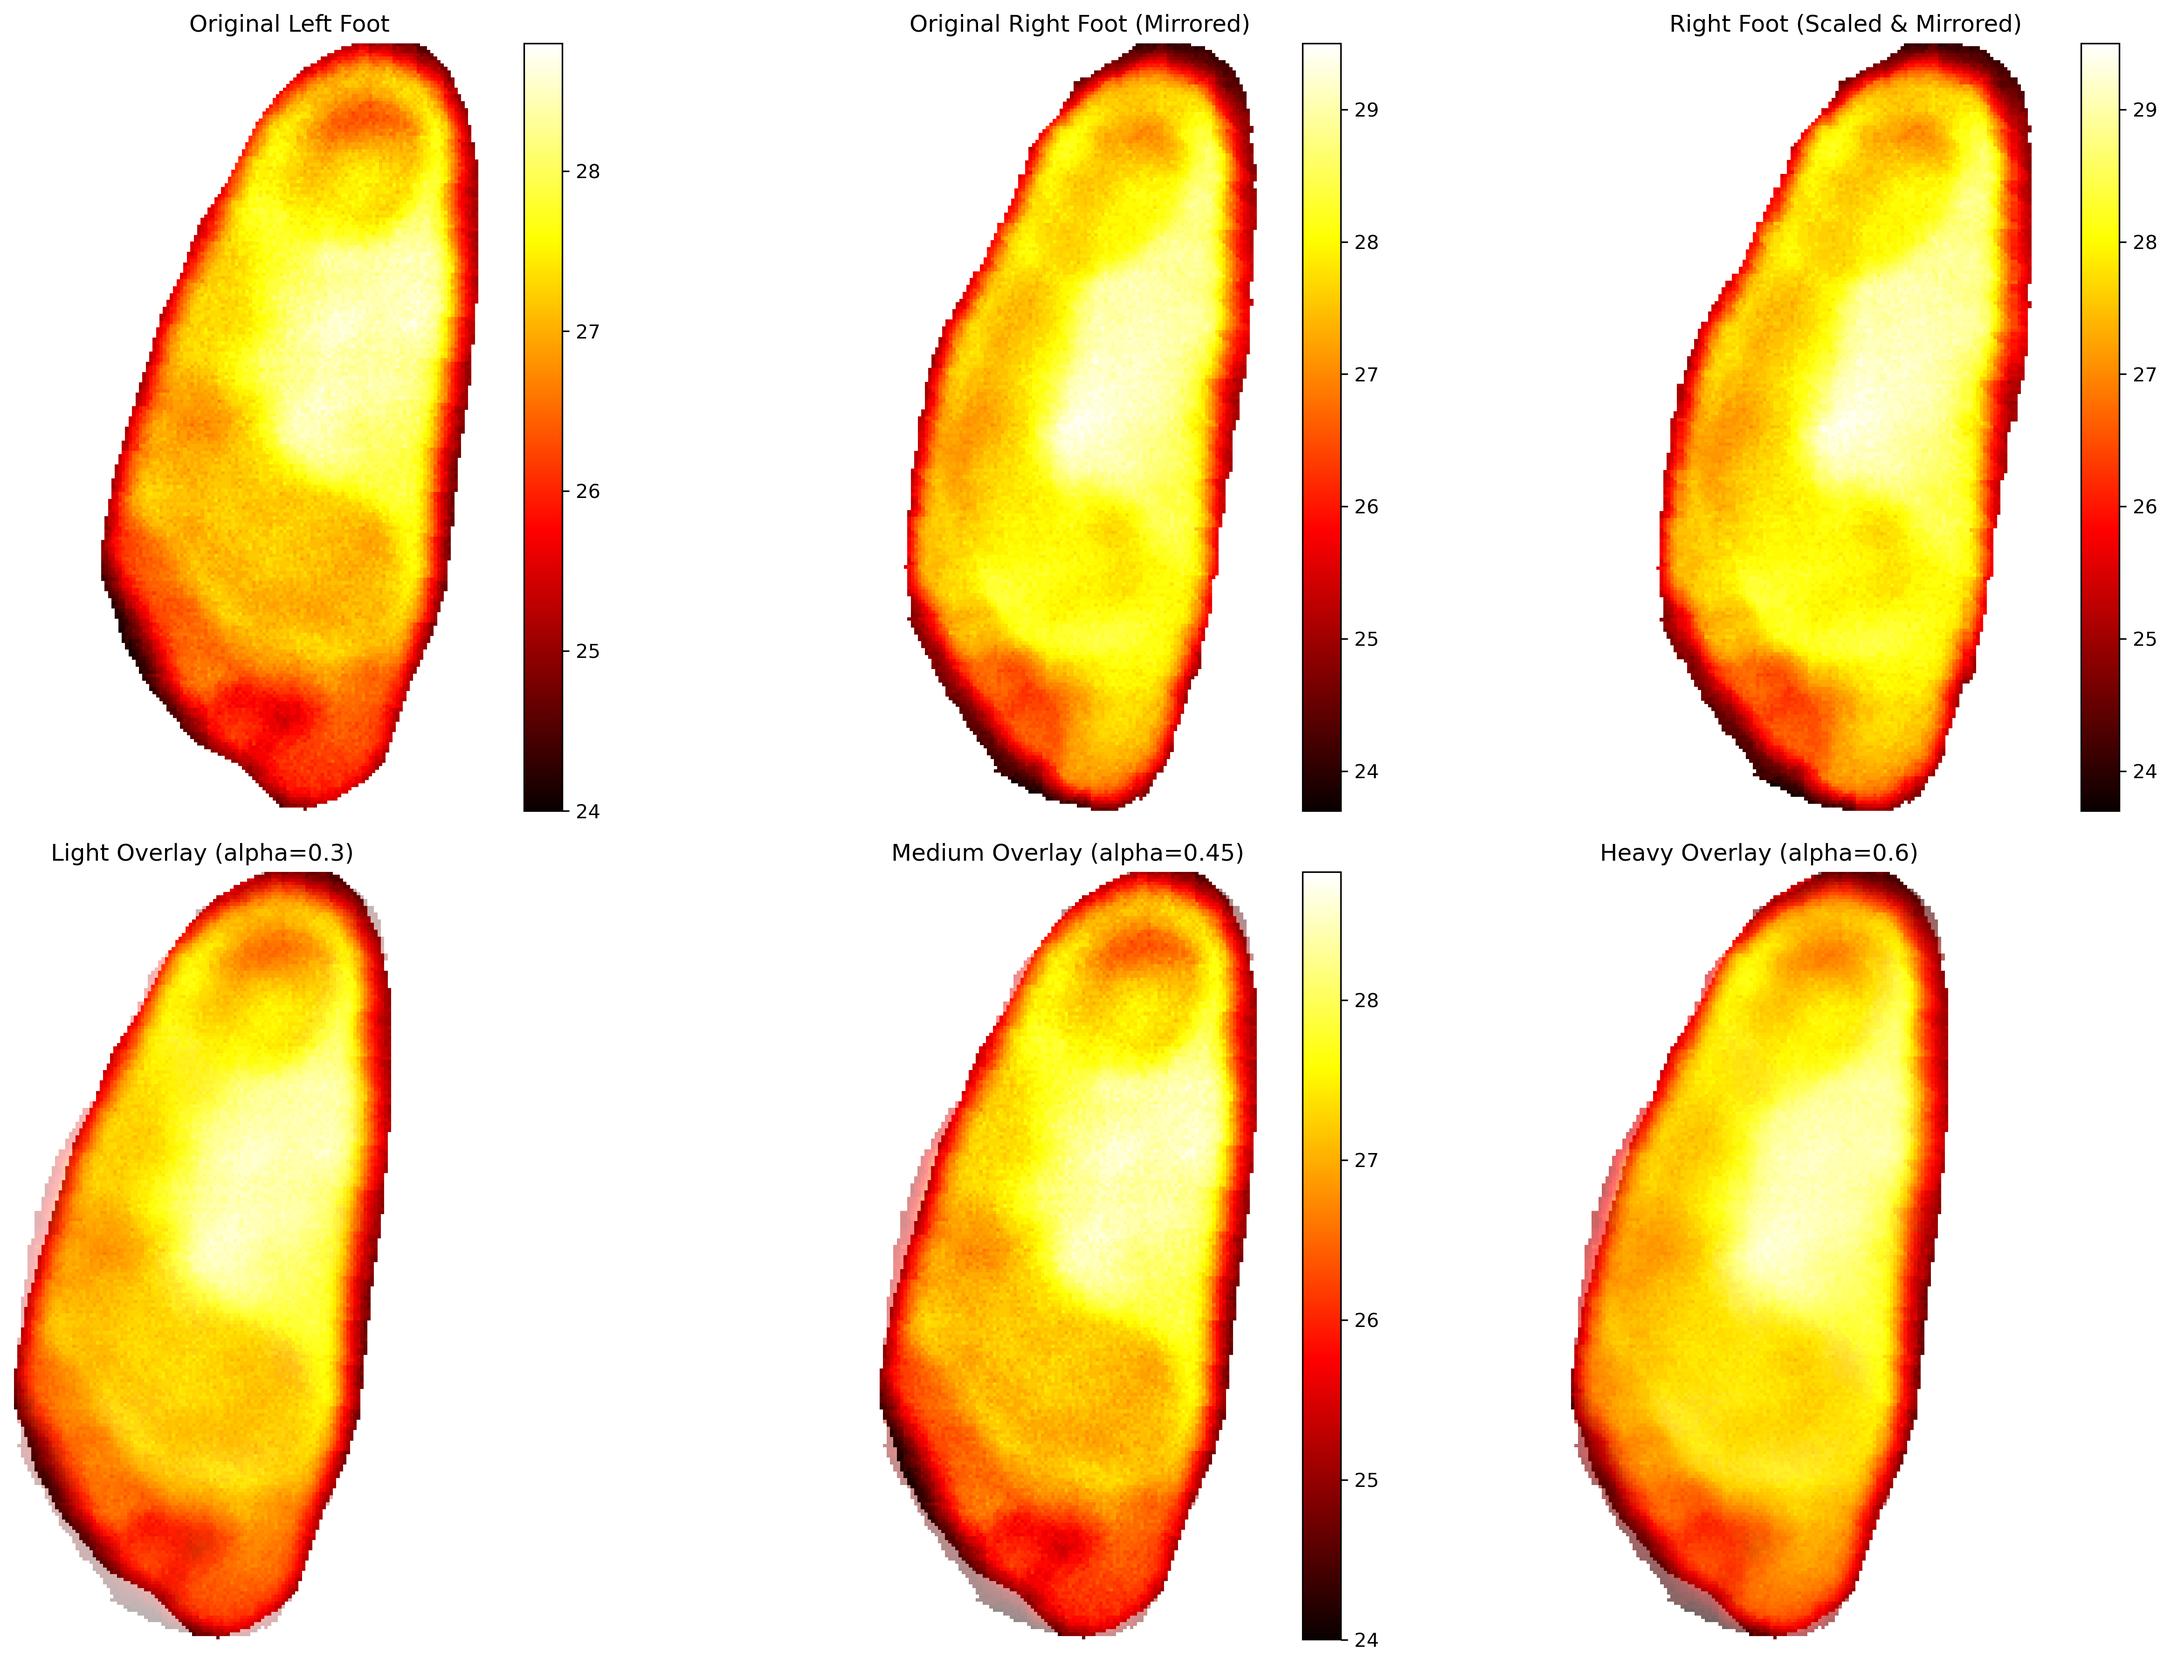
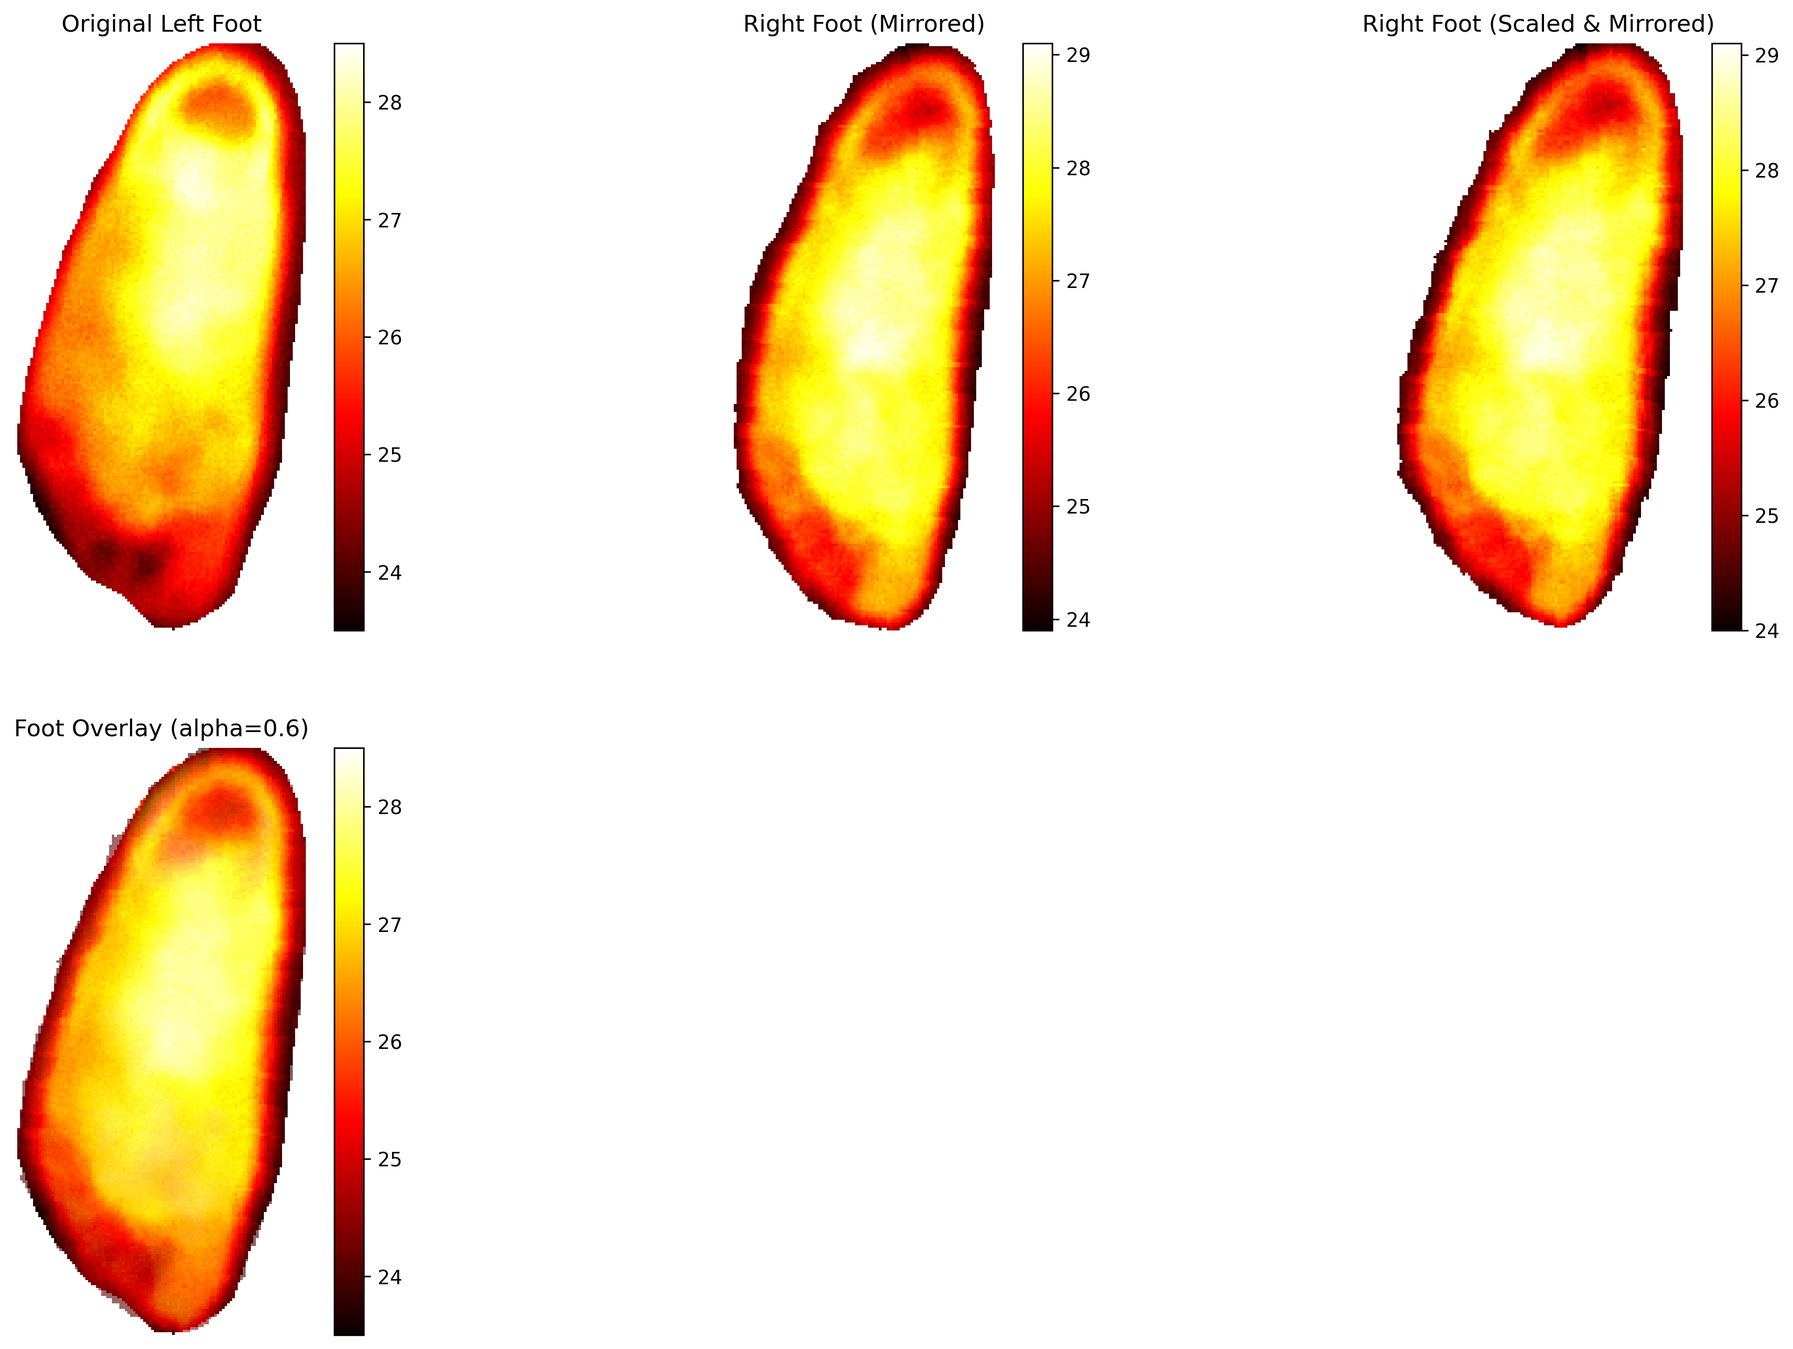
tweaked the grid size and learning rate to achieve the best warp

diff --git a/foot_overlay_creator_simplified2.py b/foot_overlay_creator_simplified2.py
@@ -10,6 +10,7 @@ AVAILABLE_MAT_FILES = {
     "gz1": "Data/Temp Data/gz1.mat",
     "gz2": "Data/Temp Data/gz2.mat",
     "gz3": "Data/Temp Data/gz3.mat",
+    "gz4": "Data/Temp Data/gz4.mat",
     "gz7": "Data/Temp Data/gz7.mat",
     "gz8": "Data/Temp Data/gz8.mat",
     "gz9": "Data/Temp Data/gz9.mat",
@@ -24,7 +25,7 @@ CMAP = "hot"
 RIGHT_ALPHA = 0.45
 ENABLE_ROTATION_OPTIMIZATION = True
 ROTATION_ANGLE_RANGE = (-30, 30)
-ROTATION_ANGLE_STEP = 1
+ROTATION_ANGLE_STEP = 0.5
 ENABLE_FOCUSED_OVERLAY = False
 MANUAL_INDEX_SELECTION = None
 ENABLE_WARP_OPTIMIZATION = True
@@ -101,7 +102,9 @@ def calculate_overlap_score(mask1, mask2):
 def find_best_rotation_angle(left_foot, right_foot_mirrored):
     left_mask = create_binary_mask(left_foot)
     best_angle, best_score, scores = 0, 0, {}
-    for angle in range(ROTATION_ANGLE_RANGE[0], ROTATION_ANGLE_RANGE[1] + 1, ROTATION_ANGLE_STEP):
+    # Use numpy.arange to handle float step sizes
+    angles = np.arange(ROTATION_ANGLE_RANGE[0], ROTATION_ANGLE_RANGE[1] + ROTATION_ANGLE_STEP, ROTATION_ANGLE_STEP)
+    for angle in angles:
         rotated_right = rotate_image(right_foot_mirrored, angle)
         right_mask = create_binary_mask(rotated_right)
         padded_left, padded_right = pad_to_same_size(left_mask.astype(float), right_mask.astype(float))
@@ -185,7 +188,7 @@ def create_foot_overlay():
         identity_grid = create_grid(*img_left.shape)
 
         # More conservative displacement parameters
-        coarse_h, coarse_w = 3, 3  # Reduced from 4x4 to 3x3 for less aggressive warping
+        coarse_h, coarse_w = 6, 6  # Reduced from 4x4 to 3x3 for less aggressive warping
         displ_coarse = torch.nn.Parameter(torch.zeros(1, coarse_h, coarse_w, 2, device=device))
 
         # More conservative optimization parameters
